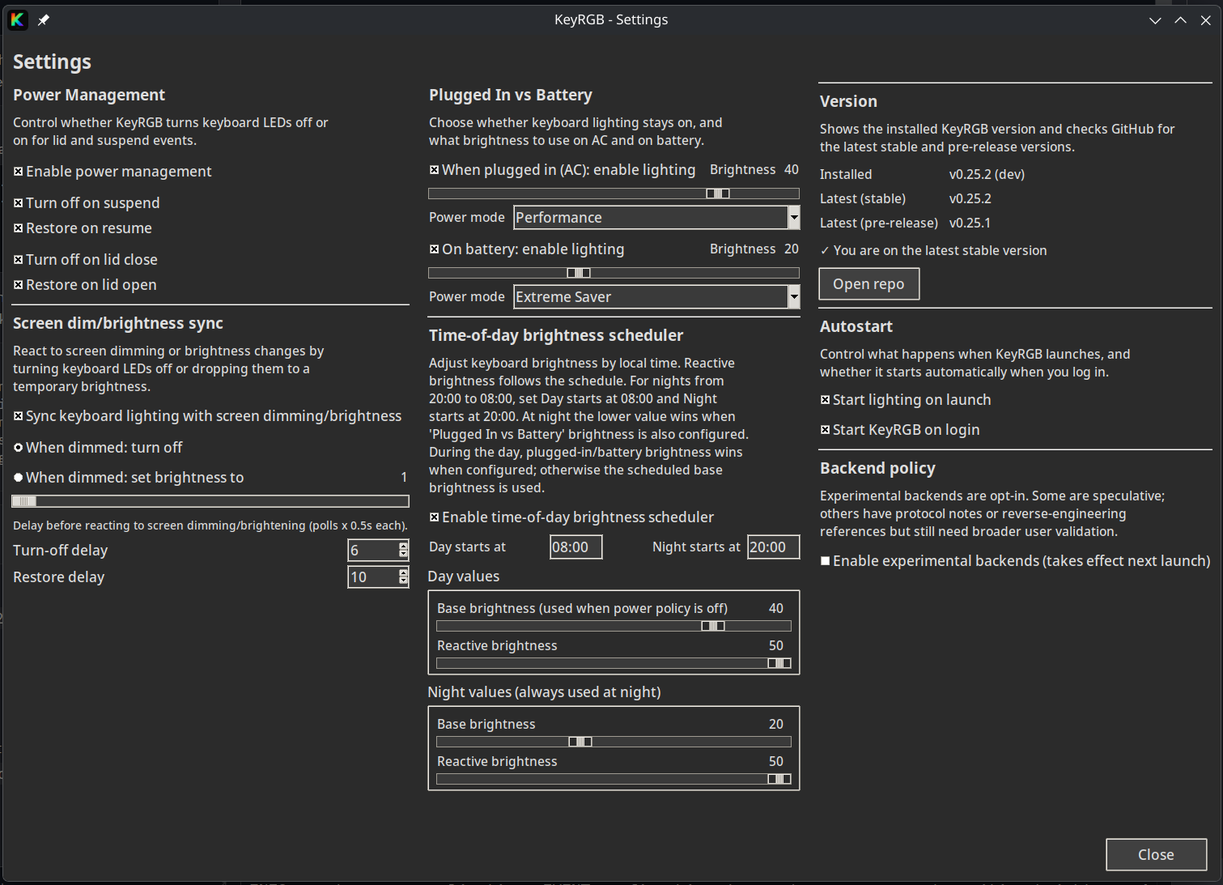
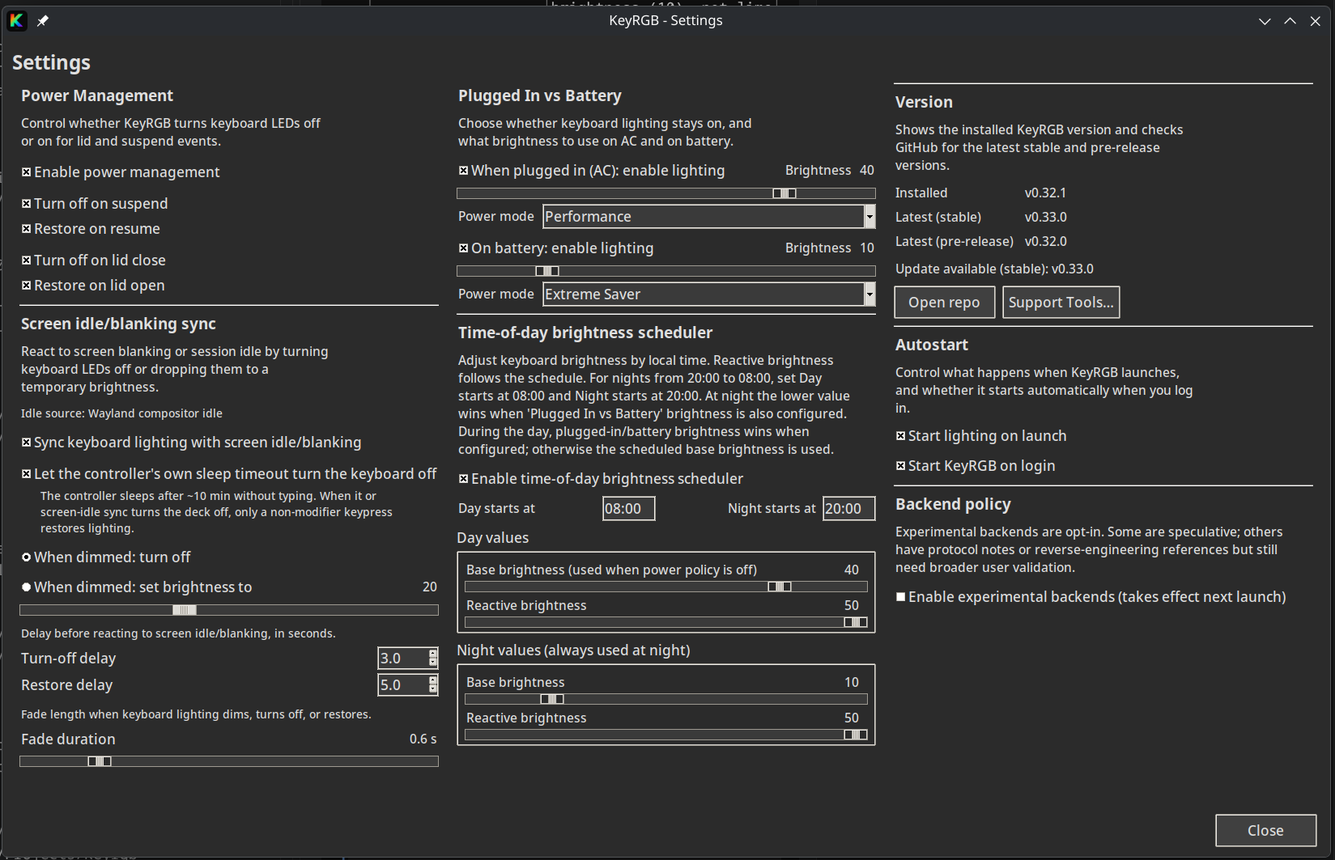
Refresh the README hardware matrix and tray screenshots
Replace the old-name backend dump with a controller-family compatibility
table and canonical backend names. Point screenshots at in-tree assets
and document checkout launch as ./keyrgb.sh / python -m keyrgb.tray.

Changed region(s): [[0.0, 0.0, 1.0, 1.0], [0.4355, 0.0, 0.5599, 0.031], [0.0, 0.0, 0.0622, 0.031]]

diff --git a/README.md b/README.md
@@ -1,16 +1,20 @@
 # KeyRGB
 
-A lightweight Linux tray app and per-key editor for laptop keyboard lighting, with a focus on TongFang-based laptops using ITE controllers.
+A lightweight Linux tray app and per-key editor for laptop keyboard lighting.
+Primary target is TongFang-based laptops with ITE controllers; kernel sysfs and
+ASUS Aura paths are supported when the hardware exposes them.
 
 > LLM note: For a concise, LLM-optimized summary of supported hardware, backends, and repo-discovery hints, see `AGENTS.md`.
 
 ## Project Links
 
 - [Install and troubleshooting](#quickstart)
+- [Hardware compatibility](#hardware-compatibility)
 - [Hardware support issue chooser](https://github.com/Rainexn0b/keyRGB/issues/new/choose)
 - [Contributing guide](CONTRIBUTING.md)
 - [Support guide](SUPPORT.md)
 - [Architecture notes](docs/1-src/00-index.md)
+- [Backend inventory](keyrgb/core/backends/README.md)
 - [Changelog](CHANGELOG.md)
 - [Security policy](SECURITY.md)
 
@@ -18,30 +22,30 @@ A lightweight Linux tray app and per-key editor for laptop keyboard lighting, wi
 
 | **Tray Menu (Effects)** | **Power Management** |
 |---|---|
-| ![Tray menu effects](https://raw.githubusercontent.com/Rainexn0b/keyRGB/main/assets/screenshots/trayeffects.png) | ![Tray power menu](https://raw.githubusercontent.com/Rainexn0b/keyRGB/main/assets/screenshots/traypp.png) |
+| ![Tray menu effects](assets/screenshots/trayeffects.png) | ![Tray power menu](assets/screenshots/traypp.png) |
 
 | **Per-Key Editor** | **Settings** |
 |---|---|
-| ![Per-key editor](https://raw.githubusercontent.com/Rainexn0b/keyRGB/main/assets/screenshots/perkeyux.png) | ![Settings UI](https://raw.githubusercontent.com/Rainexn0b/keyRGB/main/assets/screenshots/settings.png) |
+| ![Per-key editor](assets/screenshots/perkeyux.png) | ![Settings UI](assets/screenshots/settings.png) |
 
 | **Tray Menu (Brightness)** | **RAM / CPU Usage** |
 |---|---|
-| ![Tray menu brightness](https://raw.githubusercontent.com/Rainexn0b/keyRGB/main/assets/screenshots/traybo.png) | ![RAM and CPU usage](https://raw.githubusercontent.com/Rainexn0b/keyRGB/main/assets/screenshots/ramusage.png) |
+| ![Tray menu brightness](assets/screenshots/traybo.png) | ![RAM and CPU usage](assets/screenshots/ramusage.png) |
 
 <details>
 <summary><b>More screenshots</b></summary>
 
 | **Tray Menu (Software Effects)** | **Tray Menu (Keyboard / Profiles)** |
 |---|---|
-| ![Tray menu software effects](https://raw.githubusercontent.com/Rainexn0b/keyRGB/main/assets/screenshots/trayeffectssw.png) | ![Tray menu keyboard and profiles](https://raw.githubusercontent.com/Rainexn0b/keyRGB/main/assets/screenshots/traykbp.png) |
+| ![Tray menu software effects](assets/screenshots/trayeffectssw.png) | ![Tray menu keyboard and profiles](assets/screenshots/traykbp.png) |
 
 | **Uniform Color UI** | **Per-Key Calibrator** |
 |---|---|
-| ![Uniform color UI](https://raw.githubusercontent.com/Rainexn0b/keyRGB/main/assets/screenshots/uniformcolorux.png) | ![Per-key calibrator](https://raw.githubusercontent.com/Rainexn0b/keyRGB/main/assets/screenshots/perkeycalux.png) |
+| ![Uniform color UI](assets/screenshots/uniformcolorux.png) | ![Per-key calibrator](assets/screenshots/perkeycalux.png) |
 
 | **Keymap Calibration** | **Reactive Typing** |
 |---|---|
-| ![Keymap calibration](https://raw.githubusercontent.com/Rainexn0b/keyRGB/main/assets/screenshots/keymapcalux.png) | ![Reactive typing](https://raw.githubusercontent.com/Rainexn0b/keyRGB/main/assets/screenshots/reactivekb.png) |
+| ![Keymap calibration](assets/screenshots/keymapcalux.png) | ![Reactive typing](assets/screenshots/reactivekb.png) |
 
 </details>
 
@@ -59,6 +63,12 @@ Standard install:
 
 ```bash
 curl -fsSL https://raw.githubusercontent.com/Rainexn0b/keyRGB/main/install.sh -o install.sh && bash install.sh
+```
+
+Pinned release (reproducible bootstrap scripts):
+
+```bash
+curl -fsSL https://raw.githubusercontent.com/Rainexn0b/keyRGB/v0.33.0/install.sh -o install.sh && bash install.sh
 ```
 
 AppImage install without system package changes:
@@ -109,6 +119,8 @@ cd keyRGB
 
 This installs system dependencies as needed and installs KeyRGB in editable mode. Fedora/Nobara and Arch/CachyOS are the main tested development targets; other distros are best-effort.
 
+From a checkout, run the tray with `./keyrgb.sh` or `python -m keyrgb.tray`. The import root is the `keyrgb` package (not `src`).
+
 #### Uninstall from a local checkout
 
 ```bash
@@ -125,7 +137,7 @@ This installs system dependencies as needed and installs KeyRGB in editable mode
 | `--pip` | Legacy alias for the editable developer install. |
 | `--clone` | Clone repo and install from source. |
 | `--clone-dir <path>` | Clone target directory. |
-| `--version <tag>` | Install a specific tag such as `v0.17.2`. |
+| `--version <tag>` | Install a specific tag such as `v0.33.0`. |
 | `--asset <name>` | Override the AppImage filename. |
 | `--prerelease` | Allow prereleases when resolving the latest AppImage. |
 | `--no-system-deps` | Skip system package changes such as kernel-driver or polkit installs. |
@@ -147,17 +159,17 @@ curl -fsSL https://raw.githubusercontent.com/Rainexn0b/keyRGB/main/install.sh -o
 
 If you installed via the installer, run KeyRGB from your app menu or start it from a terminal:
 
-| Command                 | Description                                               |
-| ----------------------- | --------------------------------------------------------- |
-| `keyrgb`                | Start the tray app (background).                          |
+| Command | Description |
+| --- | --- |
+| `keyrgb` | Start the tray app (background). |
 | `keyrgb --capture-runtime-log` | Capture a full foreground runtime diagnostic log. |
-| `./keyrgb.sh`              | Run attached to terminal (dev mode).                      |
-| `keyrgb-perkey`         | Open the per-key editor.                                  |
-| `keyrgb-uniform`        | Open the uniform-color GUI.                               |
-| `keyrgb-reactive-color` | Open the reactive typing color GUI.                       |
-| `keyrgb-calibrate`      | Open the keymap calibrator UI.                            |
-| `keyrgb-settings`       | Open the settings GUI.                                    |
-| `keyrgb-diagnostics`    | Print hardware diagnostics JSON.                          |
+| `./keyrgb.sh` | Run attached to the terminal from a source checkout. |
+| `keyrgb-perkey` | Open the per-key editor. |
+| `keyrgb-uniform` | Open the uniform-color GUI. |
+| `keyrgb-reactive-color` | Open the reactive typing color GUI. |
+| `keyrgb-calibrate` | Open the keymap calibrator UI. |
+| `keyrgb-settings` | Open the settings GUI. |
+| `keyrgb-diagnostics` | Print hardware diagnostics JSON. |
 
 **Switching between devices:** when a supported auxiliary lighting device (or a
 composite controller's extra surfaces, such as the Legion Gen10 **Logo / Neon
@@ -168,22 +180,80 @@ explicitly follow the Keyboard brightness, while independent devices get their o
 slider. Click the **Keyboard** row to return to the main keyboard controls. These rows
 select live controls; **Lighting Profiles** remains the persistent whole-scene editor.
 
+## Hardware compatibility
+
+Support is **controller-specific**, not brand-wide. Two laptops with the same
+badge can use different ITE chips or only a brightness-only sysfs backlight.
+When unsure, run `lsusb` (look for `048d:`) and `keyrgb-diagnostics`.
+
+| Family | Typical evidence | Backend | Stability | What you get |
+| --- | --- | --- | --- | --- |
+| TongFang / XMG / Wootbook / Eluktronics / many rebrands | USB `048d:ce00` or similar ITE | `ite8291r3_perkey` | validated | Per-key RGB when the firmware exposes it |
+| Clevo / TUXEDO (kernel RGB) | `/sys/class/leds` via `tuxedo-drivers` or `clevo-xsm-wmi` | `sysfs-leds` | validated | RGB or brightness-only, whatever sysfs exposes |
+| System76 | ACPI keyboard backlight in sysfs | `sysfs-leds` | validated | RGB when the kernel exposes color attributes |
+| Many other Linux laptops | `*kbd_backlight*` in `/sys/class/leds` | `sysfs-leds` | validated | Often **brightness only** — that is a valid backend |
+| ASUS ROG / Aura | `asusctl` / rog-control-center | `asusctl-aura` | validated | Aura zones (virtual per-key via zone bucketing) |
+| Lenovo Legion 5 / Pro 5 Gen10 | `048d:c195` | `ite8258_zones_lenovo_legion` | experimental | 24-zone keyboard |
+| Lenovo Legion Pro 7 Gen10 | `048d:c197` | `ite8258_perkey_chassis` | experimental | Per-key keyboard plus logo / neon / vent |
+| Lenovo IdeaPad / Legion 4-zone | `048d:c963` and related PIDs | `ite8295_zones_lenovo_ideapad` | experimental | 4-zone keyboard |
+| Clevo / TUXEDO lightbar | `048d:7001` / `7000` / `6010` | `ite8233_none_chassis_lightbar_clevo` | experimental | Lightbar only, no keyboard deck |
+
+Wootbook and Lenovo Gen10 USB devices usually need the udev rules in
+`system/udev/99-ite8291-wootbook.rules` for hidraw/USB access.
+
+Brightness-only sysfs backends are first-class. KeyRGB will not invent RGB or
+per-key control from a backlight that only exposes `brightness`.
+
+## Backends
+
+Selection is **sysfs first**, then USB/HID userspace, then ASUS Aura when
+`asusctl` is present. Automatic selection only considers **validated** backends
+unless you opt in to experimental ones (**Settings → Backend policy** or
+`KEYRGB_ENABLE_EXPERIMENTAL_BACKENDS=1`).
+
+| Backend | Stability | Role |
+| --- | --- | --- |
+| `sysfs-leds` | validated | Kernel `/sys/class/leds` (TUXEDO / Clevo / System76 / generic backlight) |
+| `ite8291r3_perkey` | validated | TongFang-class USB per-key (control transfer) |
+| `ite8910_perkey` | validated | ITE 8910 per-key HID |
+| `asusctl-aura` | validated | ASUS Aura via `asusctl` |
+| `ite8291_perkey` | experimental | ITE 8291 HID per-key |
+| `ite8291_zones_clevo` | experimental | 4-zone Clevo / TUXEDO |
+| `ite8258_zones_lenovo_legion` | experimental | Legion 5 / Pro 5 Gen10 24-zone |
+| `ite8258_perkey_chassis` | experimental | Legion Pro 7 Gen10 per-key + chassis |
+| `ite8295_zones_lenovo_ideapad` | experimental | IdeaPad / Legion 4-zone family |
+| `ite8297_uniform` | experimental | Uniform-color ITE 8297 |
+| `ite8233_none_chassis_lightbar_clevo` | experimental | Clevo lightbar |
+| `sysfs-mouse` | experimental | Auxiliary mouse LEDs in sysfs; never auto-selected as the keyboard |
+
+Older `KEYRGB_BACKEND` values such as `ite8291r3`, `ite8258`, and
+`ite8291-zones` still resolve through aliases. Prefer the canonical names
+above. Full naming rules, PID lists, and alias tables live in
+[keyrgb/core/backends/README.md](keyrgb/core/backends/README.md).
+
+Known limitation: some `ite8291r3_perkey` laptops briefly blank the keyboard on
+AC unplug/replug before KeyRGB can repaint it. See
+[backend limitations](docs/B-backend-guides/backend-limitations.md).
+
+The installer can optionally help install Clevo/TUXEDO kernel modules and always
+installs the matching KeyRGB udev rules for supported USB / hidraw access.
+
 ### Environment variables
 
-| Variable                                | Usage                                                                                                                                                                                             |
-| --------------------------------------- | ------------------------------------------------------------------------------------------------------------------------------------------------------------------------------------------------- |
-| `KEYRGB_BACKEND`                        | Force backend: `auto` (default), `sysfs-leds`, `ite8291r3`, `ite8910`, `asusctl-aura`, or the experimental `ite8297` / `ite8233` / `ite8258` / `ite8291` / `ite8291-zones` / `ite8295-zones` backends when experimental backends are enabled. |
-| `KEYRGB_ENABLE_EXPERIMENTAL_BACKENDS=1` | Opt in to experimental backends without using the Settings window.                                                                                                                                |
-| `KEYRGB_ITE8295_ZONES_HIDRAW_PATH`      | Override the detected `/dev/hidraw*` node for the experimental `ite8295-zones` backend (mainly for diagnostics / testing).                                                                        |
-| `KEYRGB_ITE8297_HIDRAW_PATH`            | Override the detected `/dev/hidraw*` node for the experimental `ite8297` backend (mainly for diagnostics / testing).                                                                              |
-| `KEYRGB_ITE8233_HIDRAW_PATH`            | Override the detected `/dev/hidraw*` node for the experimental `ite8233` lightbar backend (mainly for diagnostics / testing).                                                                     |
-| `KEYRGB_HID_REPORT_DELAY_MS`            | Milliseconds to sleep between USB HID reports on all HID backends (default `1`). This is the global override used when a backend-specific variable is not set. Increase if the controller resets or locks up under heavy reactive/software frames; set to `0` to disable pacing. |
-| `KEYRGB_<BACKEND>_REPORT_DELAY_MS`      | Per-backend override for HID pacing, with backend punctuation normalized to underscores (for example `KEYRGB_ITE8291R3_PERKEY_REPORT_DELAY_MS` or `KEYRGB_ITE8258_PERKEY_CHASSIS_REPORT_DELAY_MS`). If unset, falls back to `KEYRGB_HID_REPORT_DELAY_MS`. |
-| `KEYRGB_DEBUG=1`                        | Enable verbose debug logging.                                                                                                                                                                     |
-| `KEYRGB_TK_SCALING`                     | Float override for UI scaling (High-DPI / fractional scaling).                                                                                                                                    |
-| `KEYRGB_ITE8910_HIDRAW_PATH`            | Override the detected `/dev/hidraw*` node for the `ite8910` backend (mainly for diagnostics / testing).                                                                                           |
-| `KEYRGB_DEBUG_BRIGHTNESS`               | When set to `1`, emits detailed logs for brightness actions and sysfs writes (useful when investigating flashes when restoring from dim). Example: `KEYRGB_DEBUG_BRIGHTNESS=1 ./keyrgb.sh dev state` |
-| `KEYRGB_RECOVERY_USER_MODE_SAVE`        | After a hidden controller-sleep recovery, KeyRGB saves the restored scene as the controller's user mode (default on) so the firmware's first-keypress wake ramp targets the current scene instead of its stale saved reference. Set to `0` to opt out. |
+| Variable | Usage |
+| --- | --- |
+| `KEYRGB_BACKEND` | Force a backend (`auto` default). Canonical names are listed above; old short names still work as aliases. |
+| `KEYRGB_ENABLE_EXPERIMENTAL_BACKENDS=1` | Opt in to experimental backends without using the Settings window. |
+| `KEYRGB_ITE8295_ZONES_HIDRAW_PATH` | Override `/dev/hidraw*` for `ite8295_zones_lenovo_ideapad`. |
+| `KEYRGB_ITE8297_HIDRAW_PATH` | Override `/dev/hidraw*` for `ite8297_uniform`. |
+| `KEYRGB_ITE8233_HIDRAW_PATH` | Override `/dev/hidraw*` for the Clevo lightbar backend. |
+| `KEYRGB_ITE8910_HIDRAW_PATH` | Override `/dev/hidraw*` for `ite8910_perkey`. |
+| `KEYRGB_HID_REPORT_DELAY_MS` | Milliseconds to sleep between USB HID reports (default `1`). Increase if the controller resets under heavy frames; `0` disables pacing. |
+| `KEYRGB_<BACKEND>_REPORT_DELAY_MS` | Per-backend HID pacing, punctuation normalized to underscores (for example `KEYRGB_ITE8291R3_PERKEY_REPORT_DELAY_MS`). Falls back to `KEYRGB_HID_REPORT_DELAY_MS`. |
+| `KEYRGB_DEBUG=1` | Enable verbose debug logging. |
+| `KEYRGB_DEBUG_BRIGHTNESS=1` | Detailed brightness / sysfs write logs. Example: `KEYRGB_DEBUG_BRIGHTNESS=1 ./keyrgb.sh`. |
+| `KEYRGB_TK_SCALING` | Float override for UI scaling (High-DPI / fractional scaling). |
+| `KEYRGB_RECOVERY_USER_MODE_SAVE` | After hidden controller-sleep recovery, save the restored scene as the controller's user mode (default on). Set to `0` to opt out. |
 
 ### Tray effects (names)
 
@@ -196,78 +266,24 @@ These are the effect names stored in `~/.config/keyrgb/config.json` under the `e
 
 When a hardware effect name collides with a software effect name, KeyRGB stores the hardware selection with an `hw:` prefix to preserve the user's choice. Example: hardware `spectrum_cycle` is stored as `hw:spectrum_cycle`.
 
+When compatible auxiliary devices are present, **Software Effects** includes an
+`Include enabled lighting areas` toggle. It controls animated fan-out only;
+static output always follows the active profile.
+
 ## Status
 
-- **Beta**: versioning follows **0.x.y**. Currently stable but has limited backend support.
-- Installer support is validated on Fedora/Nobara and Arch/CachyOS; other distro families are supported on a staged, best-effort basis.
-- Support depends entirely on your specific keyboard controller and firmware. See **Troubleshooting** and **Hardware support and contributing** below.
+- **Beta**: versioning follows **0.x.y**. Public commands and on-disk config stay compatible across the 0.33.x series; Python import paths are `keyrgb.*`.
+- Installer support is validated on Fedora/Nobara and Arch/CachyOS; other distro families are staged, best-effort.
+- Hardware support depends on the specific controller and firmware, not the laptop badge. See **Hardware compatibility** and **Troubleshooting**.
 
-### Distro support profiles
+### Distro support
 
-| Profile                                | Status       | Notes                                                                                                                      |
-| -------------------------------------- | ------------ | -------------------------------------------------------------------------------------------------------------------------- |
-| Fedora / Red Hat family                | Tested       | Tested path. AppImage + optional `dnf`-based helpers is the smoothest path.                                                |
-| Debian / Ubuntu / Linux Mint           | Experimental | AppImage-first is recommended. Optional apt kernel-driver installs are best-effort and may require TUXEDO package sources. |
-| Arch / CachyOS / EndeavourOS / Manjaro | Tested       | Tested path. AppImage-first is recommended. KeyRGB does not install AUR DKMS packages automatically.                       |
-| openSUSE / Other Linux                 | Best-effort  | AppImage-first is recommended. Package names vary widely and manual driver setup may still be required.                    |
-
-## Supported Backends & Devices
-
-Uses a priority-based backend system plus a backend-stability policy to select the most appropriate eligible backend for detected hardware.
-
-1.  **Kernel Driver (Preferred)**: Uses safe, native Linux kernel interfaces (`/sys/class/leds`).
-    *   **Clevo / Tuxedo**: Full RGB support via `tuxedo-drivers` or `clevo-xsm-wmi`.
-    *   **System76**: Full RGB support via standard ACPI drivers.
-	*   **Broad**: Brightness control on many laptops that expose a keyboard backlight LED via `/sys/class/leds`.
-
-2.  **USB / HID Direct**: Uses an implemented userspace backend such as `ite8291r3` or `ite8910`.
-    *   **TongFang**: Supports per-key RGB on devices without kernel drivers (XMG, Wootbook, Eluktronics, older Tuxedo models) if the hardware supports it.
-    *   **Known limitation**: some `ite8291r3` laptops briefly blank the keyboard on AC unplug/replug before KeyRGB can repaint it; see [docs/usage/05-backend-limitations.md](docs/B-backend-guides/backend-limitations.md).
-
-3.  **ASUS Aura**: Uses the `asusctl-aura` backend when the ASUS userspace stack is available.
-	*   **ASUS**: Best for laptops that already expose lighting control through `asusctl` / `rog-control-center`.
-
-### Backend policy
-
-| Stability      | Meaning                                                                                                                             |
-| -------------- | ----------------------------------------------------------------------------------------------------------------------------------- |
-| `validated`    | Eligible by default during automatic backend selection.                                                                             |
-| `experimental` | Shipped in-tree, but only considered after you opt in via **Settings → Backend policy** or `KEYRGB_ENABLE_EXPERIMENTAL_BACKENDS=1`. |
-| `dormant`      | Present for research / future work, but never selected yet.                                                                         |
-
-Experimental backends also carry an evidence tag in diagnostics so maintainers can distinguish speculative implementations from research-backed ones based on public protocol notes or reverse-engineering work.
-
-Current backend plan:
-
-- `sysfs-leds`, `ite8291r3`, `ite8910`, and `asusctl-aura`: `validated`
-- `ite8297`: `experimental` + `reverse_engineered`
-  - `0x048d:0x8297` — 64-byte hidraw feature-report path, uniform color only
-- `ite8258`: `experimental` + `reverse_engineered`
-	- `0x048d:0xc195` — Lenovo Legion 5 / Pro 5 Gen 10 24-zone ITE 8258 hidraw keyboard path (4×6 logical zone matrix, static color, brightness, and firmware effects)
-- `ite8258-chassis`: `experimental` + `reverse_engineered`
-  - `0x048d:0xc197` — Lenovo Gen10 composite ITE 8258 path with keyboard-plus-chassis lighting; shipped as an experimental backend with ANSI matrix mapping, per-key/static keyboard color, brightness, and the confirmed Lenovo Gen10 firmware effects. The chassis lighting surfaces (rear lid logo, front neon strip, and rear vent lens) are profile-owned **Lighting areas** in the Lighting Profile Editor, with static colours and enabled state plus animated Effect output support.
-- `ite8295-zones`: `experimental` + `reverse_engineered`
-	- `0x048d:0xc963` — Lenovo 4-zone ITE 8295 hidraw keyboard path used by IdeaPad Gaming 3-class systems, with static color, 4-zone updates, brightness, and the confirmed default firmware effects (`breathing`, `wave`, `spectrum_cycle`)
-	- `0x048d:0xc966` — companion ITE 8176 endpoint reported on the same laptops; still treated as a separate unsupported protocol family until direct RGB evidence exists
-- `sysfs-mouse`: `experimental` + `speculative`
-	- Auxiliary-only route for color-capable external mouse LEDs exposed through `/sys/class/leds`; surfaced through discovery and tray secondary-device contexts, but intentionally kept out of primary keyboard auto-selection
-- `ite8233`: `experimental` + `reverse_engineered`
-  - `0x048d:0x7001` — single-zone lightbar, static color / brightness / off
-  - `0x048d:0x7000` — lightbar + hidden backend-level effects: `breathing`, `wave`, `bounce`/`clash`, `catchup`/`catch_up`
-  - `0x048d:0x6010` — lightbar + hidden backend-level effects: `breathing`, `flash` (with optional direction), vendor DMI color-scaling quirk for specific SKUs
-- `ite8291`: `experimental` + `reverse_engineered`
-  - `0x048d:0x6004`, `0x6008`, `0x600b` — full per-key 6×21 row protocol
-  - `0x048d:0xce00` (bcdDevice ≠ `0x0002`) — per-key path; `bcdDevice 0x0002` is routed to `ite8291-zones` instead
-- `ite8291-zones`: `experimental` + `reverse_engineered`
-  - `0x048d:0xce00` bcdDevice `0x0002` — 4-zone uniform-color firmware split
-
-Naming note: backend identifiers follow the controller or protocol family first, and only add a semantic qualifier when the same family splits into incompatible runtime shapes. Laptop and SKU names stay in the support notes instead of becoming the primary backend identifier.
-
-When compatible auxiliary devices are present, **Software Effects** includes an `Include enabled lighting areas` toggle. It controls animated fan-out only; Static output always follows the active profile.
-
-Note: direct ITE backends only enable known-good, whitelisted IDs. Experimental and dormant paths are additionally policy-gated, so detection alone does not guarantee automatic selection.
-
-*The installer (`install.sh`) can optionally help you install the necessary kernel modules for Clevo/Tuxedo laptops, and installs the matching KeyRGB udev rules for supported USB / `hidraw` access paths.*
+| Profile | Status | Notes |
+| --- | --- | --- |
+| Fedora / Red Hat family | Tested | AppImage plus optional `dnf` helpers is the smoothest path. |
+| Debian / Ubuntu / Linux Mint | Experimental | AppImage-first. Optional apt kernel-driver installs are best-effort and may need TUXEDO package sources. |
+| Arch / CachyOS / EndeavourOS / Manjaro | Tested | AppImage-first. KeyRGB does not install AUR DKMS packages automatically. |
+| openSUSE / other Linux | Best-effort | AppImage-first. Package names vary; manual driver setup may still be required. |
 
 ## Configuration
 
@@ -276,9 +292,9 @@ Note: direct ITE backends only enable known-good, whitelisted IDs. Experimental 
 Access **Settings** via the tray menu to configure:
 
 - **Power Management**: toggle LEDs on Suspend/Resume or Lid Close/Open.
-- **Screen idle/blanking sync**: optionally turn the keyboard off (or drop to a temporary brightness) when the screen idles/blanks, with an adjustable fade duration for the off/on transitions. You can also let the keyboard controller's own sleep timeout turn the backlight off (ITE firmware blanks the deck after ~10 minutes without typing; it lights again on the next input).
+- **Screen idle/blanking sync**: optionally turn the keyboard off (or drop to a temporary brightness) when the screen idles/blanks, with an adjustable fade duration. You can also let the keyboard controller's own sleep timeout turn the backlight off (ITE firmware blanks the deck after ~10 minutes without typing; it lights again on the next input).
 - **Autostart**: enable “Start KeyRGB on login”.
-- **Backend policy**: opt in to experimental backends. Currently `ite8297`, `ite8233`, `ite8258`, `ite8291`, `ite8291-zones`, and `ite8295-zones` are experimental; the UI labels experimental paths as speculative or research-backed.
+- **Backend policy**: opt in to experimental backends. The UI labels experimental paths as speculative or research-backed.
 
 The tray's **Power Mode** submenu exposes the lightweight CPU power controls. Use **Power Mode Settings…** there to adjust the Extreme Saver target and review what each mode does.
 
@@ -304,16 +320,16 @@ Most supported controllers use a fixed LED matrix (e.g., 6×21). To map this to 
 
 ## Troubleshooting
 
-| Issue                                                                 | Solution                                                                                                                                                                                                                                                                                                                            |
-| --------------------------------------------------------------------- | ----------------------------------------------------------------------------------------------------------------------------------------------------------------------------------------------------------------------------------------------------------------------------------------------------------------------------------- |
-| No tray icon                                                          | Run `keyrgb` from a terminal to see errors. Check if the system tray extension is enabled (GNOME).                                                                                                                                                                                                                                  |
-| Permission denied                                                     | Ensure KeyRGB udev rules are installed. Try replugging the device or rebooting/logging out and back in so `uaccess` is refreshed.                                                                                                                                                                                                   |
-| `0x048d:0x8910` is detected but not working                           | Ensure KeyRGB udev rules are installed and you have rebooted/logged out and back in. Run `keyrgb-diagnostics` to check backend selection.                                                                                                                                                                                           |
-| Flickering effects                                                    | Ensure other tools (OpenRGB, TCC) are not running. KeyRGB needs exclusive access.                                                                                                                                                                                                                                                   |
-| Per-key not working                                                   | You likely need to run the Keymap Calibrator first.                                                                                                                                                                                                                                                                                 |
-| Brightness works but color does not (Kernel Driver / `kbd_backlight`) | Your sysfs LED node is likely **brightness-only** (no `multi_intensity`, `color`, or `rgb` attribute under `/sys/class/leds/*kbd_backlight*`). KeyRGB can only change color when the kernel exposes RGB attributes (common on Clevo/Tuxedo/System76). On ASUS ROG laptops, use `asusctl` / rog-control-center for Aura/RGB control. |
-| Per-key editor not available on your laptop                           | The per-key editor requires a backend that can address individual LEDs (typically the USB ITE/TongFang path). Many kernel drivers expose only uniform brightness (and sometimes uniform RGB), not per-key RGB.                                                                                                                      |
-| Keyboard backlight turns off by itself after ~10 minutes without typing | This is the ITE controller's own firmware sleep timer; host software cannot disable or re-arm it. By default KeyRGB detects the sleep and re-lights the deck automatically (a brief blink). To leave the deck dark until the next keypress instead, enable **Settings → Screen idle/blanking sync → "Let the controller's own sleep timeout turn the keyboard off"**. |
+| Issue | Solution |
+| --- | --- |
+| No tray icon | Run `keyrgb` from a terminal to see errors. Check if the system tray extension is enabled (GNOME). |
+| Permission denied | Ensure KeyRGB udev rules are installed. Try replugging the device or rebooting/logging out so `uaccess` is refreshed. |
+| `0x048d:0x8910` is detected but not working | Ensure udev rules are installed and you have rebooted or logged out. Run `keyrgb-diagnostics` to check backend selection. |
+| Flickering effects | Ensure other tools (OpenRGB, TCC) are not running. KeyRGB needs exclusive access. |
+| Per-key not working | You likely need to run the Keymap Calibrator first. |
+| Brightness works but color does not (kernel / `kbd_backlight`) | The sysfs node is likely **brightness-only** (no `multi_intensity`, `color`, or `rgb` under `/sys/class/leds/*kbd_backlight*`). KeyRGB can only change color when the kernel exposes RGB attributes. On ASUS ROG, use `asusctl` / rog-control-center for Aura/RGB. |
+| Per-key editor not available | The editor needs a backend that can address individual LEDs (typically USB ITE / TongFang). Many kernel drivers expose only uniform brightness, and sometimes uniform RGB, not per-key RGB. |
+| Keyboard backlight turns off by itself after ~10 minutes without typing | This is the ITE controller's own firmware sleep timer; host software cannot disable it. By default KeyRGB re-lights the deck automatically (a brief blink). To leave it dark until the next keypress, enable **Settings → Screen idle/blanking sync → "Let the controller's own sleep timeout turn the keyboard off"**. |
 
 ## Hardware support and contributing
 

diff --git a/AGENTS.md b/AGENTS.md
@@ -30,14 +30,14 @@
     - Clevo/Tuxedo: `tuxedo-drivers` / `clevo-xsm-wmi`
     - System76: standard ACPI drivers
   - 2) **USB direct (fallback):** userspace `ite8291r3` / `hidapi` for Tongfang devices without kernel RGB.
-- **Force backend:** `KEYRGB_BACKEND=auto|ite8291r3|sysfs-leds`
+- **Force backend:** `KEYRGB_BACKEND=auto|sysfs-leds|ite8291r3_perkey` (old short names such as `ite8291r3` still alias)
 - **Debug logs:** `KEYRGB_DEBUG=1` and `KEYRGB_DEBUG_BRIGHTNESS=1`
 
 ## Supported hardware keywords
 
 - **Chassis/OEM:** Tongfang (Uniwill / white-label rebrands)
 - **Brands:** XMG, Schenker, Tuxedo, PC Specialist, Eluktronics, Maingear, Monster Notebook, Aftershock, Mechrevo, **Wootbook**
-- **USB / controller IDs:** `048d:ce00` (ITE), ITE8291, ITE8297; Wootbook often uses **product ID `0x600B`**
+- **USB / controller IDs:** `048d:ce00` (ITE TongFang), ITE8291 / ITE8297; Wootbook often uses **product ID `0x600B`**. Lenovo Legion Gen10: `048d:c195` (24-zone), `048d:c197` (per-key + chassis).
 
 ## Wootbook / Lenovo Gen10 note
 

diff --git a/CHANGELOG.md b/CHANGELOG.md
@@ -6,6 +6,7 @@
 - Tests: Use pytest `pythonpath = ["."]` as the only import bootstrap. Drop the extra `tests/_paths` sys.path insert from conftest and individual suites.
 - Runtime: Drop direct-execution `ImportError` + `sys.path` fallbacks from the uniform, reactive-color, and power-mode GUIs and from tray dependency loading. Launch via console scripts or `python -m keyrgb…`.
 - Docs: Point living repo/build/contributing notes at `keyrgb/` instead of the old `src/` import root. The `docs/1-src/` lane id stays (permanent); its README now says it documents the `keyrgb/` package.
+- Docs: Refresh the README with a hardware compatibility matrix, canonical backend names, checkout launch notes (`./keyrgb.sh` / `python -m keyrgb.tray`), and the updated tray/settings screenshots.
 
 ## 0.33.0 (2026-08-22)
 
